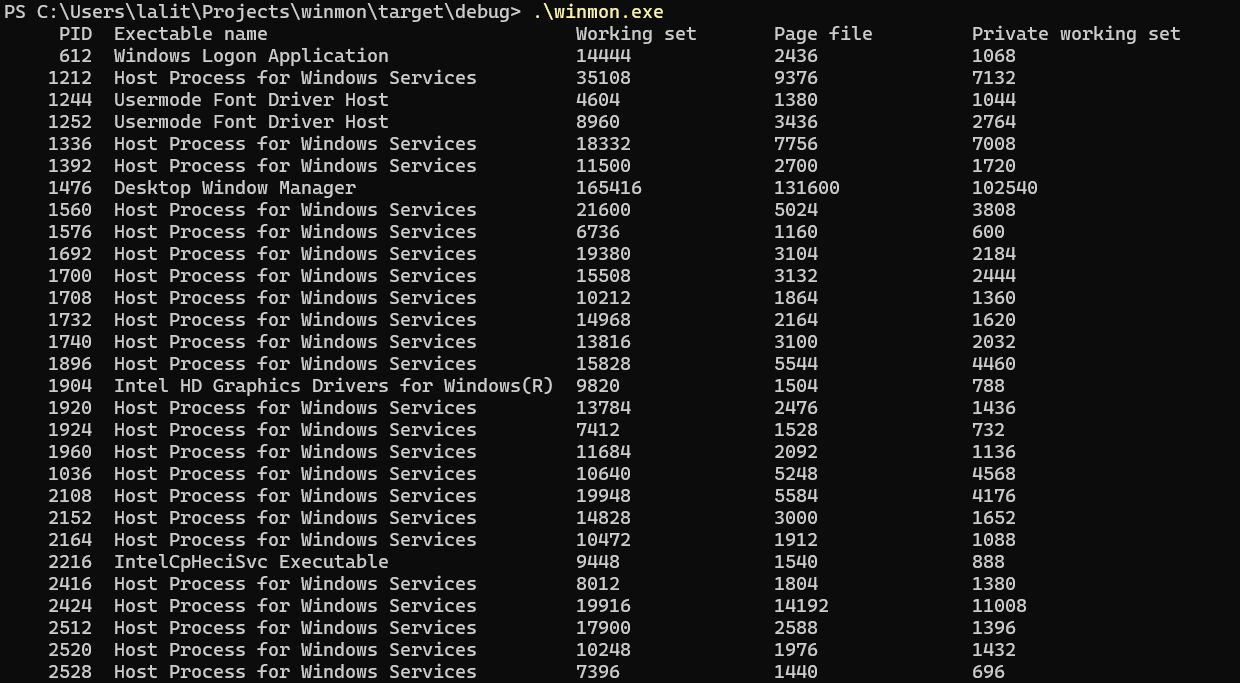
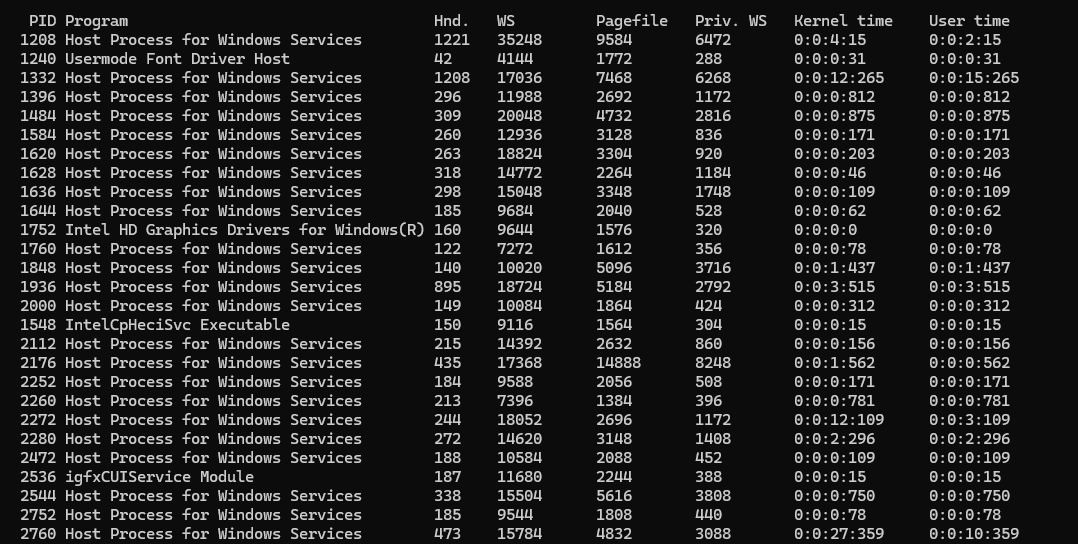
Show handle count and CPU times

Changed region(s): [[0.0, 0.0, 0.7041, 1.0], [0.7347, 0.0312, 0.949, 1.0]]

diff --git a/src/main.rs b/src/main.rs
@@ -6,18 +6,21 @@ use std::collections::HashMap;
 use std::collections::hash_map::Entry::{Occupied, Vacant};
 use std::mem;
 use std::time::Instant;
-use windows::Win32::Foundation::{CloseHandle, HANDLE, MAX_PATH};
+use windows::Win32::Foundation::{CloseHandle, FILETIME, HANDLE, SYSTEMTIME};
 use windows::Win32::Storage::EnhancedStorage::{PKEY_FileDescription, PKEY_Software_ProductName};
 use windows::Win32::System::Com::{CoInitialize, CoUninitialize, CreateBindCtx};
 use windows::Win32::System::ProcessStatus::{
-    EnumProcesses, GetModuleBaseNameW, GetModuleFileNameExW, GetProcessMemoryInfo,
-    PROCESS_MEMORY_COUNTERS, PROCESS_MEMORY_COUNTERS_EX2,
+    EnumProcesses, GetModuleFileNameExW, GetProcessMemoryInfo, PROCESS_MEMORY_COUNTERS,
+    PROCESS_MEMORY_COUNTERS_EX2,
 };
-use windows::Win32::System::Threading::{OpenProcess, PROCESS_QUERY_INFORMATION, PROCESS_VM_READ};
+use windows::Win32::System::Threading::{
+    GetProcessHandleCount, GetProcessTimes, OpenProcess, PROCESS_QUERY_INFORMATION, PROCESS_VM_READ,
+};
+use windows::Win32::System::Time::FileTimeToSystemTime;
 use windows::Win32::UI::Shell::*;
 use windows::core::PCWSTR;
 
-type DWORD = u32;
+type Dword = u32;
 
 fn init() {
     unsafe {
@@ -25,17 +28,17 @@ fn init() {
     }
 }
 
-fn cleanup(pid_to_handle: &HashMap<DWORD, HANDLE>) {
+fn cleanup(pid_to_handle: &HashMap<Dword, HANDLE>) {
     unsafe {
-        for (_, value) in pid_to_handle.into_iter() {
+        for (_, value) in pid_to_handle.iter() {
             CloseHandle(*value).unwrap();
         }
         CoUninitialize();
     }
 }
 
-fn get_pids(proc_pids: &mut Vec<DWORD>) {
-    let dword_size = mem::size_of::<DWORD>();
+fn get_pids(proc_pids: &mut Vec<Dword>) {
+    let dword_size = mem::size_of::<Dword>();
 
     loop {
         let proc_pids_nbytes = proc_pids.len() * dword_size;
@@ -56,38 +59,21 @@ fn get_pids(proc_pids: &mut Vec<DWORD>) {
 }
 
 struct ProcCaches {
-    pid_to_handle: HashMap<DWORD, HANDLE>,
-    pid_to_path: HashMap<DWORD, String>,
-    path_to_desc: HashMap<String, ProcessDesc>,
-}
-
-struct ProcessDesc {
-    exe_name: String,
-    display_name: String,
-}
-
-struct ProcessInfo {
-    file_path: String,
-    exe_name: String,
-    display_name: String,
-    working_set: usize,
-    page_file: usize,
-    private_working_set: usize,
+    pid_to_handle: HashMap<Dword, HANDLE>,
+    pid_to_path: HashMap<Dword, String>,
+    path_to_disp_name: HashMap<String, String>,
 }
 
 fn get_file_path_u16(proc_handle: HANDLE) -> ([u16; 32767], usize) {
     unsafe {
-        let mut file_path_u16 = [0; 32767 as usize];
+        let mut file_path_u16 = [0; 32767_usize];
         let len = GetModuleFileNameExW(Some(proc_handle), None, &mut file_path_u16) as usize;
         (file_path_u16, len)
     }
 }
 
-fn get_process_desc(proc_handle: HANDLE, file_path_u16: &[u16]) -> Result<ProcessDesc, String> {
+fn get_proc_disp_name(file_path_u16: &[u16]) -> Result<String, String> {
     unsafe {
-        let mut exe_name_u16 = [0; MAX_PATH as usize];
-        let len = GetModuleBaseNameW(proc_handle, None, &mut exe_name_u16);
-
         let bind_ctx = CreateBindCtx(0).map_err(|err| err.message())?;
         let item: IShellItem2 =
             SHCreateItemFromParsingName(PCWSTR(file_path_u16.as_ptr()), &bind_ctx)
@@ -97,14 +83,11 @@ fn get_process_desc(proc_handle: HANDLE, file_path_u16: &[u16]) -> Result<Proces
             .or_else(|_| item.GetString(&PKEY_Software_ProductName))
             .map_err(|err| err.message())?;
 
-        Ok(ProcessDesc {
-            exe_name: String::from_utf16_lossy(&exe_name_u16[..len as usize]),
-            display_name: String::from_utf16_lossy(display_name.as_wide()),
-        })
+        Ok(String::from_utf16_lossy(display_name.as_wide()))
     }
 }
 
-fn get_process_info(pid: DWORD, caches: &mut ProcCaches) -> Result<ProcessInfo, String> {
+fn print_process_info(pid: Dword, caches: &mut ProcCaches) -> Result<(), String> {
     unsafe {
         let proc_handle = match caches.pid_to_handle.entry(pid) {
             Occupied(entry) => entry.into_mut(),
@@ -112,7 +95,7 @@ fn get_process_info(pid: DWORD, caches: &mut ProcCaches) -> Result<ProcessInfo, 
                 let proc_handle =
                     OpenProcess(PROCESS_QUERY_INFORMATION | PROCESS_VM_READ, false, pid)
                         .map_err(|err| err.message())?;
-                entry.insert(proc_handle.clone())
+                entry.insert(proc_handle)
             }
         };
 
@@ -125,11 +108,11 @@ fn get_process_info(pid: DWORD, caches: &mut ProcCaches) -> Result<ProcessInfo, 
             }
         };
 
-        let proc_desc = match caches.path_to_desc.entry(file_path.clone()) {
+        let proc_disp_name = match caches.path_to_disp_name.entry(file_path.clone()) {
             Occupied(entry) => entry.into_mut(),
             Vacant(entry) => {
                 let (file_path_u16, len) = get_file_path_u16(*proc_handle);
-                entry.insert(get_process_desc(*proc_handle, &file_path_u16[..len])?)
+                entry.insert(get_proc_disp_name(&file_path_u16[..len])?)
             }
         };
 
@@ -142,14 +125,50 @@ fn get_process_info(pid: DWORD, caches: &mut ProcCaches) -> Result<ProcessInfo, 
         .map_err(|err| err.message())?;
         let pmc_ex2 = &mut pmc as *mut _ as *mut PROCESS_MEMORY_COUNTERS_EX2;
 
-        Ok(ProcessInfo {
-            exe_name: proc_desc.exe_name.clone(),
-            display_name: proc_desc.display_name.clone(),
-            file_path: file_path.clone(),
-            working_set: pmc.WorkingSetSize,
-            page_file: pmc.PagefileUsage,
-            private_working_set: (*pmc_ex2).PrivateWorkingSetSize,
-        })
+        let (mut creation_time_ft, mut exit_time_ft, mut kernel_time_ft, mut user_time_ft) = (
+            FILETIME::default(),
+            FILETIME::default(),
+            FILETIME::default(),
+            FILETIME::default(),
+        );
+        GetProcessTimes(
+            *proc_handle,
+            &mut creation_time_ft,
+            &mut exit_time_ft,
+            &mut kernel_time_ft,
+            &mut user_time_ft,
+        )
+        .map_err(|err| err.message())?;
+
+        let (mut kernel_time, mut user_time) = (SYSTEMTIME::default(), SYSTEMTIME::default());
+        FileTimeToSystemTime(&kernel_time_ft, &mut kernel_time).map_err(|err| err.message())?;
+        FileTimeToSystemTime(&user_time_ft, &mut user_time).map_err(|err| err.message())?;
+
+        let mut hnd_count = 0;
+        GetProcessHandleCount(*proc_handle, &mut hnd_count).map_err(|err| err.message())?;
+
+        println!(
+            "{:>6} {:<40} {:<6} {:<10} {:<10} {:<10} {:<14} {:<14}",
+            pid,
+            proc_disp_name,
+            hnd_count,
+            (pmc.WorkingSetSize / 1024),
+            (pmc.PagefileUsage / 1024),
+            ((*pmc_ex2).PrivateWorkingSetSize / 1024),
+            format!(
+                "{}:{}:{}:{}",
+                kernel_time.wHour,
+                kernel_time.wMinute,
+                kernel_time.wSecond,
+                kernel_time.wMilliseconds
+            ),
+            format!(
+                "{}:{}:{}:{}",
+                user_time.wHour, user_time.wMinute, user_time.wSecond, kernel_time.wMilliseconds
+            )
+        );
+
+        Ok(())
     }
 }
 
@@ -157,23 +176,11 @@ fn print_process_list(caches: &mut ProcCaches) {
     let mut pids = vec![0; 1024];
     get_pids(&mut pids);
     println!(
-        "{:>8}  {:<40}  {:<16}  {:<16}  {:<16}",
-        "PID", "Exectable name", "Working set", "Page file", "Private working set"
+        "\n{:>6} {:<40} {:<6} {:<10} {:<10} {:<10} {:<14} {:<14}",
+        "PID", "Program", "Hnd.", "WS", "Pagefile", "Priv. WS", "Kernel time", "User time"
     );
     for pid in pids {
-        let proc_info = match get_process_info(pid, caches) {
-            Ok(stats) => stats,
-            Err(_) => continue,
-        };
-
-        println!(
-            "{:>8}  {:<40}  {:<16}  {:<16}  {:<16}",
-            pid,
-            proc_info.display_name,
-            (proc_info.working_set / 1024),
-            (proc_info.page_file / 1024),
-            (proc_info.private_working_set / 1024),
-        );
+        _ = print_process_info(pid, caches);
     }
 }
 
@@ -183,7 +190,7 @@ fn main() {
     let mut caches = ProcCaches {
         pid_to_handle: HashMap::new(),
         pid_to_path: HashMap::new(),
-        path_to_desc: HashMap::new(),
+        path_to_disp_name: HashMap::new(),
     };
     print_process_list(&mut caches);
     println!("Elapsed: {:?}", start.elapsed());
